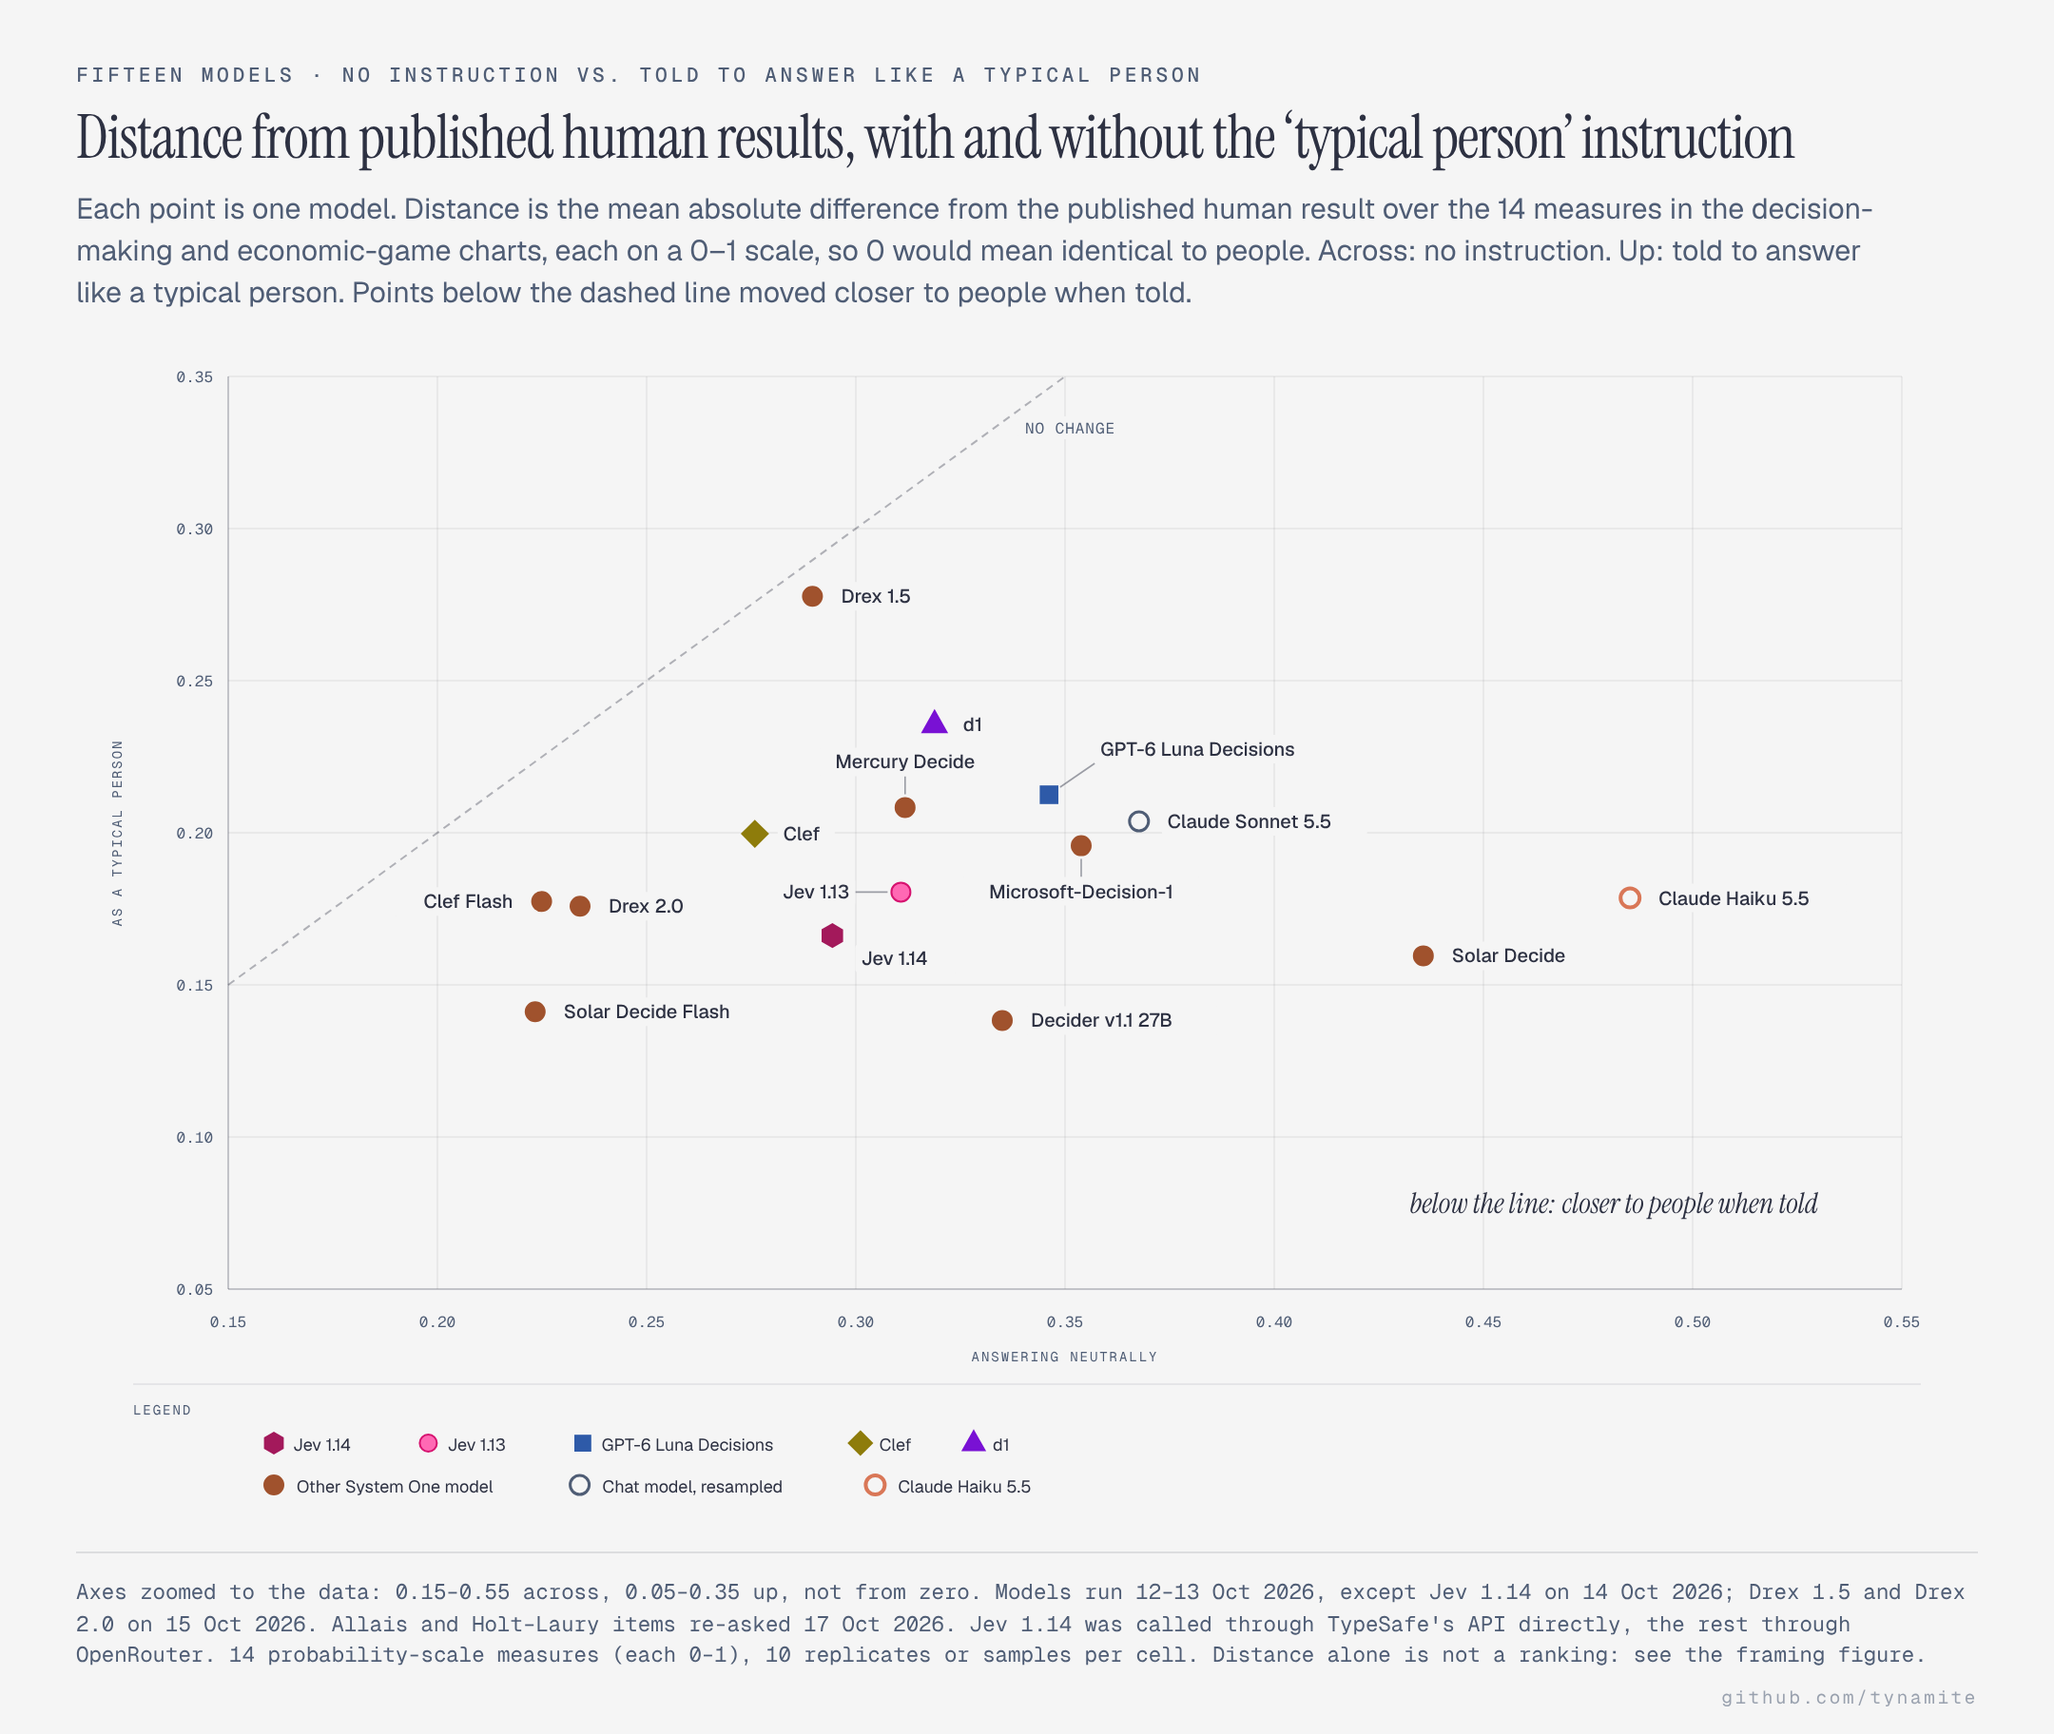
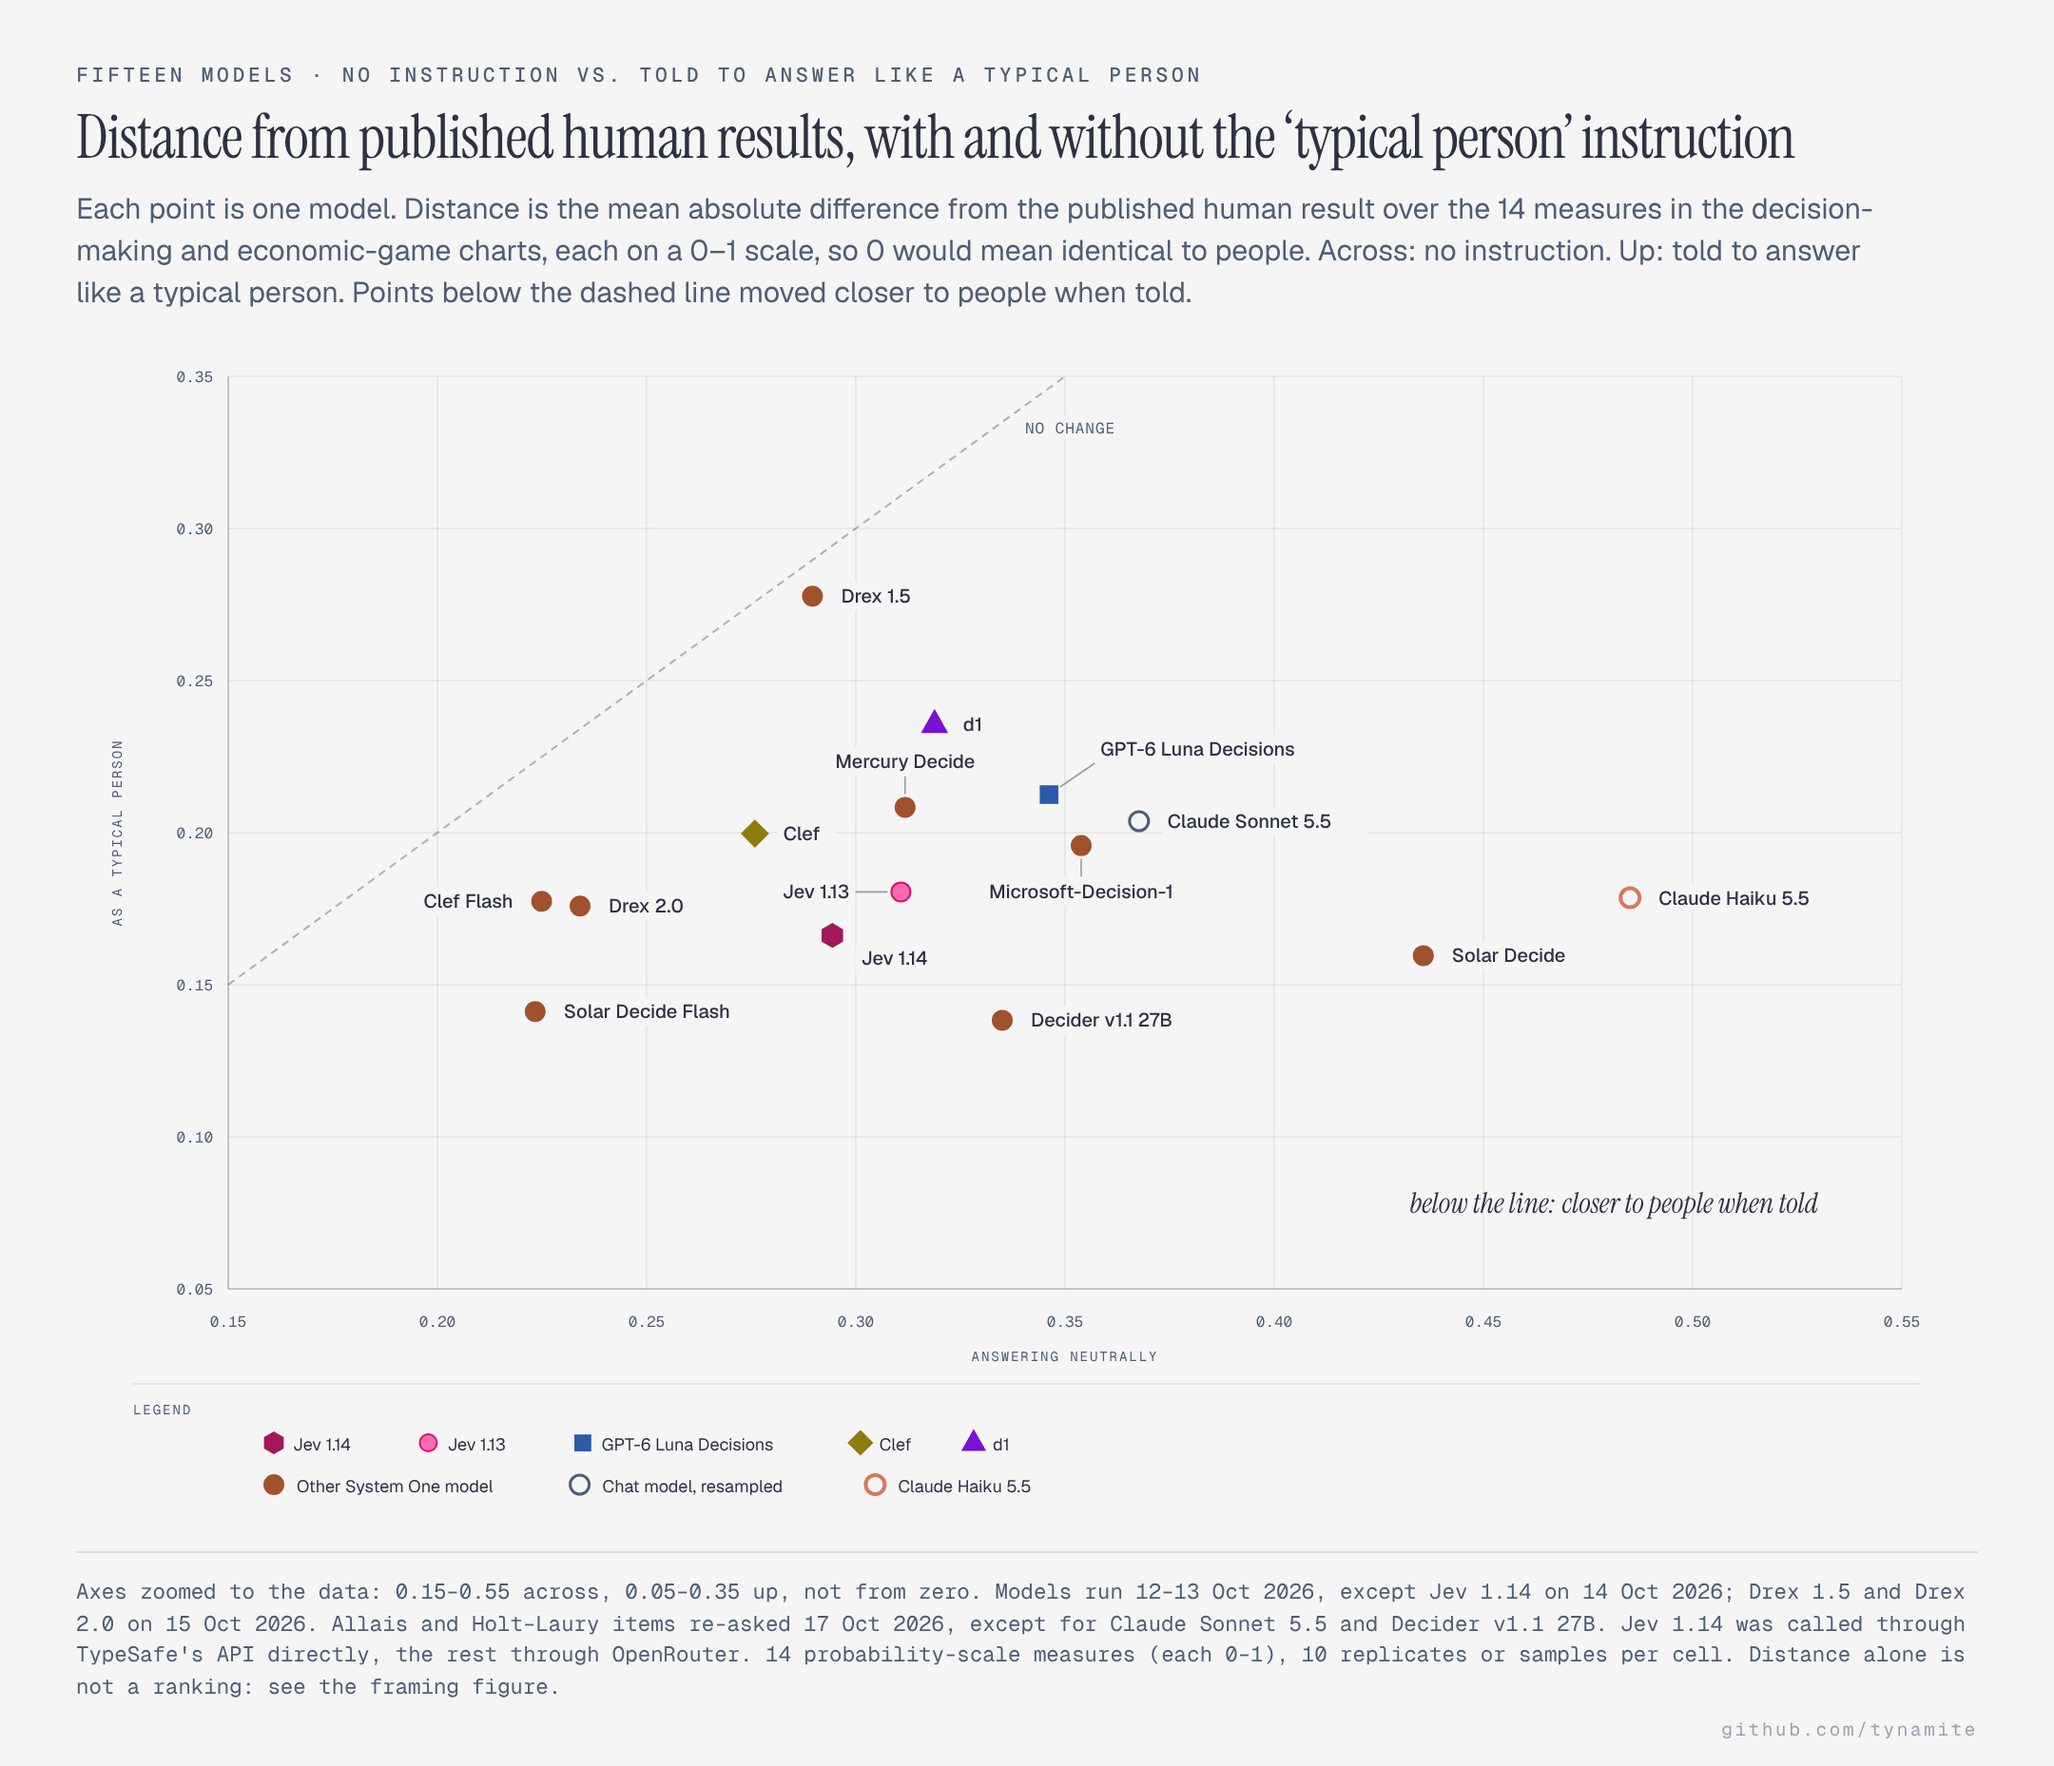
Name the models the re-run did not reach in the figures' source lines
Claude-Session: https://claude.ai/code/session_013x9DuKQfjEbX7Jv1jut1YW

diff --git a/docs/diagrams/framing-contrast.html b/docs/diagrams/framing-contrast.html
@@ -137,7 +137,7 @@
 <text x="970" y="497" fill="#4f5d75" font-size="8" font-family="'Geist Mono', ui-monospace, monospace" text-anchor="end">ROWS BY THE AS-A-PERSON VALUE</text>
       </svg>
     </div>
-    <p class="source">The chart holds eight rows, so the rest are given here, with no instruction and as a typical person: Claude Sonnet 5.5 20 and 100; Claude Haiku 5.5 0 and 90; GPT-6 Luna Decisions 16 and 11; Decider v1.1 27B 3 and 21; Mercury Decide 0 and 18; Solar Decide Flash 10 and 0; Clef Flash 2 and 2. Human rates: Tversky &amp; Kahneman (1981). Models run 12–13 Oct 2026, except Jev 1.14 on 14 Oct 2026; Drex 1.5 and Drex 2.0 on 15 Oct 2026. Allais and Holt–Laury items re-asked 17 Oct 2026.</p>
+    <p class="source">The chart holds eight rows, so the rest are given here, with no instruction and as a typical person: Claude Sonnet 5.5 20 and 100; Claude Haiku 5.5 0 and 90; GPT-6 Luna Decisions 16 and 11; Decider v1.1 27B 3 and 21; Mercury Decide 0 and 18; Solar Decide Flash 10 and 0; Clef Flash 2 and 2. Human rates: Tversky &amp; Kahneman (1981). Models run 12–13 Oct 2026, except Jev 1.14 on 14 Oct 2026; Drex 1.5 and Drex 2.0 on 15 Oct 2026. Allais and Holt–Laury items re-asked 17 Oct 2026, except for Claude Sonnet 5.5 and Decider v1.1 27B.</p>
     <p class="mark" aria-hidden="true">github.com/tynamite</p>
   </div>
 </body>

diff --git a/docs/diagrams/models-scatter.html b/docs/diagrams/models-scatter.html
@@ -160,7 +160,7 @@
 <text x="432.2" y="627" fill="#2d3142" font-size="9" font-family="'Geist', system-ui, sans-serif" text-anchor="start">Claude Haiku 5.5</text>
       </svg>
     </div>
-    <p class="source">Axes zoomed to the data: 0.15–0.55 across, 0.05–0.35 up, not from zero. Models run 12–13 Oct 2026, except Jev 1.14 on 14 Oct 2026; Drex 1.5 and Drex 2.0 on 15 Oct 2026. Allais and Holt–Laury items re-asked 17 Oct 2026. Jev 1.14 was called through TypeSafe&#x27;s API directly, the rest through OpenRouter. 14 probability-scale measures (each 0–1), 10 replicates or samples per cell. Distance alone is not a ranking: see the framing figure.</p>
+    <p class="source">Axes zoomed to the data: 0.15–0.55 across, 0.05–0.35 up, not from zero. Models run 12–13 Oct 2026, except Jev 1.14 on 14 Oct 2026; Drex 1.5 and Drex 2.0 on 15 Oct 2026. Allais and Holt–Laury items re-asked 17 Oct 2026, except for Claude Sonnet 5.5 and Decider v1.1 27B. Jev 1.14 was called through TypeSafe&#x27;s API directly, the rest through OpenRouter. 14 probability-scale measures (each 0–1), 10 replicates or samples per cell. Distance alone is not a ranking: see the framing figure.</p>
     <p class="mark" aria-hidden="true">github.com/tynamite</p>
   </div>
 </body>

diff --git a/docs/diagrams/health-checks.html b/docs/diagrams/health-checks.html
@@ -108,7 +108,7 @@
 <text x="460" y="411" fill="#2d3142" font-size="9" font-family="'Geist', system-ui, sans-serif" text-anchor="start">Cause outside the repository&#x27;s control</text>
       </svg>
     </div>
-    <p class="source">results/comparison/health.csv. Models run 12–13 Oct 2026, except Jev 1.14 on 14 Oct 2026; Drex 1.5 and Drex 2.0 on 15 Oct 2026. Allais and Holt–Laury items re-asked 17 Oct 2026. The truncated Haiku run was discarded, not mixed in.</p>
+    <p class="source">results/comparison/health.csv. Models run 12–13 Oct 2026, except Jev 1.14 on 14 Oct 2026; Drex 1.5 and Drex 2.0 on 15 Oct 2026. Allais and Holt–Laury items re-asked 17 Oct 2026, except for Claude Sonnet 5.5 and Decider v1.1 27B. The truncated Haiku run was discarded, not mixed in.</p>
     <p class="mark" aria-hidden="true">github.com/tynamite</p>
   </div>
 </body>

diff --git a/src/jevbench/diagrams.py b/src/jevbench/diagrams.py
@@ -702,7 +702,32 @@ def _count(n: int) -> str:
     return words.split()[n] if n < 16 else str(n)
 
 
-RERUN_NOTE = " Allais and Holt\u2013Laury items re-asked 17 Oct 2026."
+def _rerun_note(models: list[str]) -> str:
+    """The re-run of the Allais and Holt-Laury items, with the models it did not reach."""
+    import json
+
+    from .analysis import RERUN_DIR_NAME
+    from .config import RAW_DIR
+
+    rerun = set()
+    for f in (RAW_DIR / RERUN_DIR_NAME).glob("run_live_*.jsonl"):
+        with f.open(encoding="utf-8") as fh:
+            first = next((line for line in fh if line.strip()), None)
+        if first:
+            rerun.add(str(json.loads(first).get("model")))
+    # Jev 1.14 is "typesafe/jev-1.14.0" in the comparison, "jev-1.14.0" on TypeSafe's own API;
+    # a column that is not a model id (a heading, "human") is not a model.
+    left = [
+        SHORT.get(m, m)
+        for m in models
+        if "/" in m and m not in rerun and m.split("/")[-1] not in rerun
+    ]
+    note = " Allais and Holt\u2013Laury items re-asked 17 Oct 2026"
+    return f"{note}, except for {_join(left)}." if left else f"{note}."
+
+
+def _join(names: list[str]) -> str:
+    return names[0] if len(names) == 1 else ", ".join(names[:-1]) + " and " + names[-1]
 
 
 def _runs_when(run_files: dict[str, str] | None, models: list[str]) -> str:
@@ -714,20 +739,20 @@ def _runs_when(run_files: dict[str, str] | None, models: list[str]) -> str:
     from datetime import date
 
     if not run_files:
-        return "All models run 12\u201313 Oct 2026." + RERUN_NOTE
+        return "All models run 12\u201313 Oct 2026." + _rerun_note(models)
     started = {m: Path(run_files[m]).name[9:17] for m in models if m in run_files}
     later: dict[str, list[str]] = {}
     for m, d in started.items():
         if d != "20261012":
             later.setdefault(d, []).append(SHORT.get(m, m))
     if not later:
-        return "All models run 12\u201313 Oct 2026." + RERUN_NOTE
+        return "All models run 12\u201313 Oct 2026." + _rerun_note(models)
     parts = []
     for d, names in sorted(later.items()):
         x = date(int(d[:4]), int(d[4:6]), int(d[6:8]))
         joined = ", ".join(names[:-1]) + " and " + names[-1] if len(names) > 1 else names[0]
         parts.append(f"{joined} on {x.day} {x:%b %Y}")
-    return f"Models run 12\u201313 Oct 2026, except {'; '.join(parts)}.{RERUN_NOTE}"
+    return f"Models run 12\u201313 Oct 2026, except {'; '.join(parts)}.{_rerun_note(models)}"
 
 
 def _backend(run_file: str) -> str:

diff --git a/tests/test_diagrams.py b/tests/test_diagrams.py
@@ -506,3 +506,11 @@ def test_figures_build_from_a_comparison_of_relocated_runs(tmp_path: Path) -> No
     compare_runs(copies, cmp)
     built = build_diagrams(COMMITTED_RUN, TABLES_DIR, cmp, tmp_path / "out", raw)
     assert any(p.stem == "models-dictator" for p in built)
+
+
+def test_rerun_note_names_the_models_it_did_not_reach() -> None:
+    from jevbench.diagrams import _rerun_note
+
+    assert _rerun_note(["typesafe/jev-1.13-20260917", "typesafe/jev-1.14.0"]).endswith("2026.")
+    note = _rerun_note(["typesafe/jev-1.14.0", "anthropic/claude-sonnet-5.5", "human"])
+    assert "except for Claude Sonnet 5.5." in note
